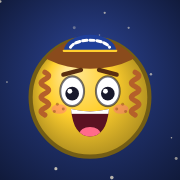
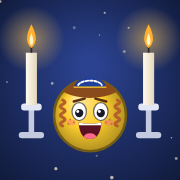
Rename to Candle Rush, add creator credit
New name and Hebrew subtitle, candle logo art, new home-screen icon
(Moishy between two Shabbat candles), "Created by Yitzhak Grazi" on the
title screen, README and page info.

Claude-Session: https://claude.ai/code/session_014yJaXk6pts8ycNBpKK3hci

diff --git a/game.js b/game.js
@@ -1,4 +1,5 @@
-/* Mazal Pop! v0.1
+/* Candle Rush v0.2
+   Created by Yitzhak Grazi.
    A bubble shooter starring the mishpacha.
    Plain canvas, no libraries. Logical board is 400 x 680 and scales to any screen. */
 (() => {
@@ -52,8 +53,8 @@
 
   // ---------- Small helpers ----------
   const store = {
-    get(k, d) { try { const v = localStorage.getItem('mazalpop.' + k); return v === null ? d : JSON.parse(v); } catch (e) { return d; } },
-    set(k, v) { try { localStorage.setItem('mazalpop.' + k, JSON.stringify(v)); } catch (e) { /* storage blocked */ } },
+    get(k, d) { try { const v = localStorage.getItem('candlerush.' + k); return v === null ? d : JSON.parse(v); } catch (e) { return d; } },
+    set(k, v) { try { localStorage.setItem('candlerush.' + k, JSON.stringify(v)); } catch (e) { /* storage blocked */ } },
   };
   const vibrate = p => { try { if (navigator.vibrate) navigator.vibrate(p); } catch (e) { /* not supported */ } };
   const fmt = n => Math.round(n).toLocaleString('en-US');
@@ -1335,6 +1336,29 @@
       fig.append(img, cap); wrap.append(fig);
     });
   }
+  // Two Shabbat candles in silver holders. s = candle scale, sp = half the gap between them (in s units)
+  function drawCandlePair(c, cx, cy, s, sp = 0.32) {
+    for (const side of [-1, 1]) {
+      const x = cx + side * sp * s;
+      const gl = c.createRadialGradient(x, cy - 0.55 * s, 0, x, cy - 0.55 * s, 0.42 * s);
+      gl.addColorStop(0, 'rgba(255,200,90,.55)'); gl.addColorStop(1, 'rgba(255,200,90,0)');
+      c.fillStyle = gl; circ(c, x, cy - 0.55 * s, 0.42 * s); c.fill();
+      c.fillStyle = '#c3c9df';
+      roundRect(c, x - 0.16 * s, cy + 0.62 * s, 0.32 * s, 0.08 * s, 0.04 * s); c.fill();
+      c.fillRect(x - 0.035 * s, cy + 0.32 * s, 0.07 * s, 0.32 * s);
+      c.fillStyle = '#e1e5f4';
+      roundRect(c, x - 0.13 * s, cy + 0.26 * s, 0.26 * s, 0.09 * s, 0.04 * s); c.fill();
+      const g = c.createLinearGradient(x - 0.07 * s, 0, x + 0.07 * s, 0);
+      g.addColorStop(0, '#fffaf0'); g.addColorStop(1, '#e3d6ba');
+      c.fillStyle = g; c.fillRect(x - 0.07 * s, cy - 0.38 * s, 0.14 * s, 0.66 * s);
+      c.strokeStyle = '#2b2b2b'; c.lineWidth = 0.022 * s;
+      c.beginPath(); c.moveTo(x, cy - 0.38 * s); c.lineTo(x, cy - 0.45 * s); c.stroke();
+      c.fillStyle = '#ffb02e';
+      c.beginPath(); c.moveTo(x, cy - 0.74 * s); c.quadraticCurveTo(x + 0.11 * s, cy - 0.53 * s, x, cy - 0.44 * s); c.quadraticCurveTo(x - 0.11 * s, cy - 0.53 * s, x, cy - 0.74 * s); c.fill();
+      c.fillStyle = '#fff3c4';
+      c.beginPath(); c.moveTo(x, cy - 0.63 * s); c.quadraticCurveTo(x + 0.05 * s, cy - 0.51 * s, x, cy - 0.47 * s); c.quadraticCurveTo(x - 0.05 * s, cy - 0.51 * s, x, cy - 0.63 * s); c.fill();
+    }
+  }
   function makeIcon(size, maskable) {
     const cv = document.createElement('canvas');
     cv.width = cv.height = size;
@@ -1344,8 +1368,20 @@
     c.fillStyle = g; c.fillRect(0, 0, size, size);
     const rnd = mulberry32(3);
     for (let i = 0; i < 22; i++) { c.fillStyle = `rgba(255,244,214,${0.3 + rnd() * 0.5})`; circ(c, rnd() * size, rnd() * size, size * (0.004 + rnd() * 0.006)); c.fill(); }
-    const r = size * (maskable ? 0.27 : 0.33);
-    c.save(); c.translate(size / 2, size * 0.54); drawPiece(c, 3, r); c.restore();
+    // maskable icons get cropped to a circle, so shrink the art toward the center
+    const k = maskable ? 0.8 : 1;
+    c.save();
+    c.translate(size / 2, size / 2); c.scale(k, k); c.translate(-size / 2, -size / 2);
+    drawCandlePair(c, size * 0.5, size * 0.46, size * 0.44, 0.74);
+    c.translate(size * 0.5, size * 0.64); drawPiece(c, 3, size * 0.2);
+    c.restore();
+    return cv.toDataURL('image/png');
+  }
+  function makeLogoCandles() {
+    const cv = document.createElement('canvas');
+    cv.width = 320; cv.height = 224;
+    const c = cv.getContext('2d');
+    drawCandlePair(c, 160, 128, 130, 0.42);
     return cv.toDataURL('image/png');
   }
 
@@ -1355,12 +1391,13 @@
 
   resize();
   buildCast();
+  $('logo-candles').src = makeLogoCandles();
   syncMute();
   showTitle();
   requestAnimationFrame(frame);
 
   // Handy for testing in the browser console
-  window.MazalPop = {
+  window.CandleRush = {
     G, startLevel, makeIcon,
     aim(deg) { G.angle = Math.min(A_MAX, Math.max(A_MIN, deg * Math.PI / 180)); },
     fire, swap,

diff --git a/index.html b/index.html
@@ -3,8 +3,9 @@
 <head>
 <meta charset="utf-8">
 <meta name="viewport" content="width=device-width, initial-scale=1, maximum-scale=1, user-scalable=no, viewport-fit=cover">
-<title>Mazal Pop!</title>
+<title>Candle Rush</title>
 <meta name="description" content="A Jewish-themed bubble shooter for the whole mishpacha. Match three, drop Haman, beat candle lighting.">
+<meta name="author" content="Yitzhak Grazi">
 <meta name="theme-color" content="#0f1836">
 <link rel="manifest" href="manifest.webmanifest">
 <link rel="icon" type="image/png" sizes="192x192" href="icons/icon-192.png">
@@ -12,7 +13,7 @@
 <meta name="apple-mobile-web-app-capable" content="yes">
 <meta name="mobile-web-app-capable" content="yes">
 <meta name="apple-mobile-web-app-status-bar-style" content="black-translucent">
-<meta name="apple-mobile-web-app-title" content="Mazal Pop">
+<meta name="apple-mobile-web-app-title" content="Candle Rush">
 <link rel="preconnect" href="https://fonts.googleapis.com">
 <link rel="preconnect" href="https://fonts.gstatic.com" crossorigin>
 <link rel="stylesheet" href="https://fonts.googleapis.com/css2?family=Fredoka:wght@400;500;600;700&display=swap">
@@ -21,7 +22,7 @@
 <body>
 <div id="app">
   <div id="stage">
-    <canvas id="game" aria-label="Mazal Pop game board"></canvas>
+    <canvas id="game" aria-label="Candle Rush game board"></canvas>
 
     <div class="hud-buttons" id="hud-buttons" hidden>
       <button class="icon-btn" id="btn-mute" type="button" aria-label="Mute sound">
@@ -35,8 +36,9 @@
 
     <section class="screen title-screen" id="screen-title" aria-label="Title">
       <div class="logo-wrap">
-        <h1 class="logo">Mazal Pop!</h1>
-        <div class="logo-he" lang="he" dir="rtl">מזל פופ</div>
+        <img class="logo-candles" id="logo-candles" alt="" width="160" height="112">
+        <h1 class="logo">Candle Rush</h1>
+        <div class="logo-he" lang="he" dir="rtl">הדלקת נרות</div>
       </div>
       <p class="tagline">Pop the mishpacha before candle lighting.</p>
       <div class="cast" id="cast"></div>
@@ -46,6 +48,7 @@
       </div>
       <p class="best" id="best-line" hidden></p>
       <p class="howto">Aim and let go. Match 3 of the same character to pop them. Every miss brings candle lighting closer, and when it hits, the Jerusalem stone comes down a row. Drop Haman for bonus gelt.</p>
+      <p class="credit">Created by Yitzhak Grazi</p>
     </section>
 
     <section class="screen dim" id="screen-pause" aria-label="Paused" hidden>

diff --git a/style.css b/style.css
@@ -92,10 +92,11 @@ body {
   touch-action: manipulation;
 }
 .title-screen {
-  gap: calc(var(--u) * 13);
+  gap: calc(var(--u) * 11);
   background: linear-gradient(rgba(12, 19, 46, .8), rgba(12, 19, 46, .94) 45%);
 }
 .logo-wrap { display: flex; flex-direction: column; align-items: center; }
+.logo-candles { width: calc(var(--u) * 80); height: calc(var(--u) * 56); margin-bottom: calc(var(--u) * -2); }
 .logo {
   margin: 0;
   font-weight: 700;
@@ -130,7 +131,7 @@ body {
   border: calc(var(--u) * 1.5) solid rgba(239, 226, 194, .15);
 }
 .cast figure { margin: 0; display: flex; flex-direction: column; align-items: center; gap: calc(var(--u) * 1); }
-.cast img { width: calc(var(--u) * 64); height: calc(var(--u) * 64); }
+.cast img { width: calc(var(--u) * 60); height: calc(var(--u) * 60); }
 .cast figcaption { font-size: calc(var(--u) * 12.5); font-weight: 600; color: var(--stone); white-space: nowrap; }
 
 .buttons { display: flex; flex-direction: column; align-items: center; gap: calc(var(--u) * 10); }
@@ -159,6 +160,14 @@ body {
 .btn.secondary:active { transform: none; }
 .best { margin: 0; font-size: calc(var(--u) * 13.5); color: rgba(239, 226, 194, .75); font-variant-numeric: tabular-nums; }
 .howto { margin: 0; font-size: calc(var(--u) * 12.5); line-height: 1.4; color: rgba(239, 226, 194, .7); max-width: calc(var(--u) * 320); }
+.credit {
+  margin: 0;
+  font-size: calc(var(--u) * 11.5);
+  font-weight: 600;
+  letter-spacing: 0.06em;
+  text-transform: uppercase;
+  color: var(--stone-deep);
+}
 
 /* Cards (pause, level done, game over) */
 .dim { background: rgba(8, 13, 32, .72); -webkit-backdrop-filter: blur(3px); backdrop-filter: blur(3px); }

diff --git a/sw.js b/sw.js
@@ -1,6 +1,6 @@
 // Offline support. Same-origin files: network first (so updates show up), cache as fallback.
 // Google Fonts: cache first.
-const CACHE = 'mazal-pop-v1';
+const CACHE = 'candle-rush-v1';
 const ASSETS = [
   './',
   './index.html',

diff --git a/README.md b/README.md
@@ -1,8 +1,10 @@
-# Mazal Pop!
+# Candle Rush
 
-A Jewish-themed bubble shooter for frum families. Match three of the same character, drop Haman for bonus gelt, and beat candle lighting before the Jerusalem stone comes down.
+**Created by Yitzhak Grazi**
 
-**Play:** https://ygrazi.github.io/mazal-pop/
+A Jewish-themed bubble shooter for frum families. Match three of the same character, drop Haman for bonus gelt, and clear the board before candle lighting brings the Jerusalem stone down.
+
+**Play:** https://ygrazi.github.io/candle-rush/
 
 ## Put it on your phone
 
@@ -40,3 +42,5 @@ Plain HTML, CSS and JavaScript with no build step. All art and sound are generat
 - `sw.js`, `manifest.webmanifest`, `icons/`: install-to-home-screen and offline support
 
 To run it locally, serve the folder (for example `python3 -m http.server`) and open http://localhost:8000.
+
+© 2026 Yitzhak Grazi
